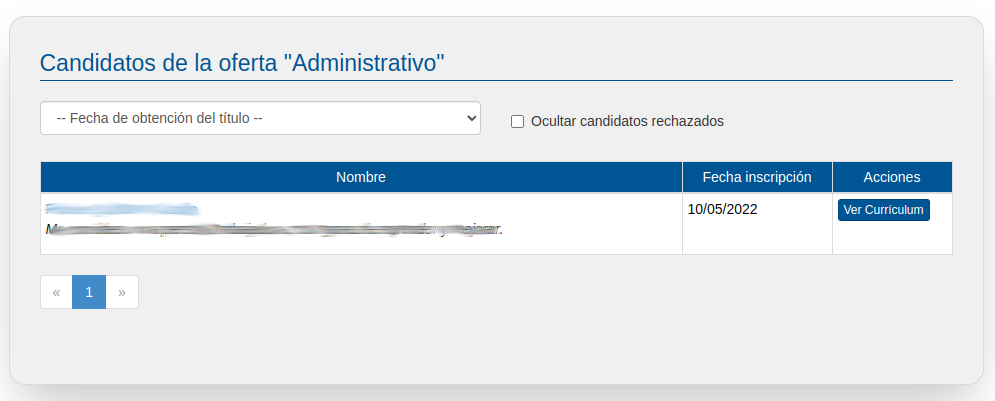
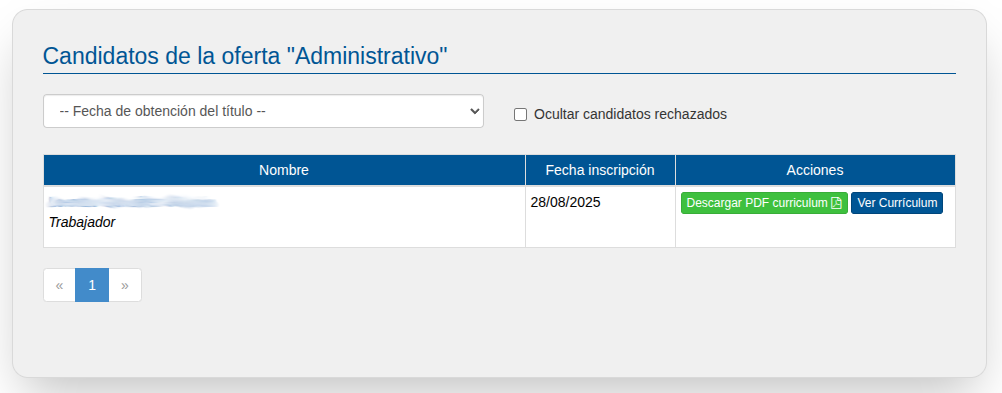
feat(#389):Que la empresa pueda descargar un PDF con el curriculum además que cuando se le envía por correo y lo vea en la web

diff --git a/web/empresa/views/candidato/search.html b/web/empresa/views/candidato/search.html
@@ -41,7 +41,7 @@ along with this program.  If not, see http://www.gnu.org/licenses/
                     <tr class="data-table__head">
                         <th ix3-order-field-names="usuario.nombre,usuario.apellidos" style="width:   90%;text-align: center">Nombre</th>
                         <th ix3-order-field-names="fecha" style="min-width: 150px; width: 150px;text-align: center">Fecha inscripci&oacute;n</th>
-                        <th style="min-width: 120px; width: 120px;text-align: center">Acciones</th>
+                        <th style="min-width: 280px; width: 280px;text-align: center">Acciones</th>
                     </tr>
                 </thead>
                 <tbody>
@@ -51,7 +51,10 @@ along with this program.  If not, see http://www.gnu.org/licenses/
                             <a href ng-click="verCandidato(candidato.idCandidato)">{{candidato.usuario.getNombreCompleto()}}</a>                                   
                             <p class="profile__value profile__value--cita">{{candidato.usuario.titulado.resumen}}</p></td>                            
                         <td >{{candidato.fecha| ix3Date}}</td>                            
-                        <td ><button class="btn btn-xs form__button form__button--default" type="button" ng-click="verCandidato(candidato.idCandidato)">Ver Currículum</button></td>                            
+                        <td >
+                            <a ng-href="{{ix3Configuration.server.api}}/Candidato/{{candidato.idCandidato}}/curriculum.pdf" class="btn btn-xs form__button form__button--primary" >Descargar PDF curriculum <i class="fa fa-file-pdf-o"></i></a>
+                            <button class="btn btn-xs form__button form__button--default" type="button" ng-click="verCandidato(candidato.idCandidato)">Ver Currículum</button>     
+                        </td>                            
                     </tr>
                 </tbody>
             </table>                 

diff --git a/web/empresa/fragments/lateralmenu/lateralmenu.js b/web/empresa/fragments/lateralmenu/lateralmenu.js
@@ -17,7 +17,7 @@
  */
 "user strict";
 
-app.controller("LateralMenuController", ['$scope', '$state', '$location', 'dialog', function ($scope, $state, $location, dialog) {
+app.controller("LateralMenuController", ['$scope', '$state', '$location', 'dialog','ix3Configuration', function ($scope, $state, $location, dialog, ix3Configuration) {
         $scope.isItemSelected = function (option) {
             if (option) {
                 var regExp = new RegExp(option);
@@ -44,5 +44,6 @@ app.controller("LateralMenuController", ['$scope', '$state', '$location', 'dialo
                 dialog.create("cambiarContrasenya", $scope.user);
             }
         };
-
+        
+        $scope.ix3Configuration=ix3Configuration;
     }]);

diff --git a/src/java/es/logongas/fpempresa/businessprocess/empresa/impl/CandidatoCRUDBusinessProcessImpl.java b/src/java/es/logongas/fpempresa/businessprocess/empresa/impl/CandidatoCRUDBusinessProcessImpl.java
@@ -16,9 +16,14 @@
 package es.logongas.fpempresa.businessprocess.empresa.impl;
 
 import es.logongas.fpempresa.businessprocess.empresa.CandidatoCRUDBusinessProcess;
+import es.logongas.fpempresa.modelo.comun.usuario.Usuario;
 import es.logongas.fpempresa.modelo.empresa.Candidato;
+import es.logongas.fpempresa.security.authorization.annotations.ACE;
+import es.logongas.fpempresa.security.authorization.annotations.ACEType;
+import es.logongas.fpempresa.service.comun.usuario.UsuarioCRUDService;
 import es.logongas.fpempresa.service.empresa.CandidatoCRUDService;
 import es.logongas.ix3.businessprocess.impl.CRUDBusinessProcessImpl;
+import es.logongas.fpempresa.security.authorization.annotations.PreAuthorization;
 import es.logongas.ix3.core.BusinessException;
 import es.logongas.ix3.core.Page;
 
@@ -29,7 +34,7 @@ import es.logongas.ix3.core.Page;
 public class CandidatoCRUDBusinessProcessImpl extends CRUDBusinessProcessImpl<Candidato, Integer> implements CandidatoCRUDBusinessProcess {
 
     @Override
-    public byte[] getFotoCandidato(FotoCandidatoArguments fotoCandidatoArguments) {
+    public byte[] getFotoCandidato(FotoCandidatoArguments fotoCandidatoArguments) throws BusinessException {
         return fotoCandidatoArguments.candidato.getUsuario().getFoto();
     }
 
@@ -63,6 +68,14 @@ public class CandidatoCRUDBusinessProcessImpl extends CRUDBusinessProcessImpl<Ca
         boolean resultado = super.delete(deleteArguments);
 
         return resultado;
+    }
+
+    @Override
+    @PreAuthorization(acl={@ACE(aceType=ACEType.Allow, groupLogin = "GEmpresas",conditionalExpression = "arguments.candidato.oferta.empresa.idEmpresa==identity.empresa.idEmpresa")})
+    public byte[] getCurriculumCandidato(CurriculumCandidatoArguments curriculumCandidatoArguments) throws BusinessException {
+        UsuarioCRUDService usuarioCRUDService = (UsuarioCRUDService) serviceFactory.getService(Usuario.class);
+        
+        return usuarioCRUDService.getCurriculum(curriculumCandidatoArguments.dataSession, curriculumCandidatoArguments.candidato.getUsuario());        
     }
     
 }

diff --git a/src/java/es/logongas/fpempresa/businessprocess/empresa/CandidatoCRUDBusinessProcess.java b/src/java/es/logongas/fpempresa/businessprocess/empresa/CandidatoCRUDBusinessProcess.java
@@ -14,7 +14,6 @@ package es.logongas.fpempresa.businessprocess.empresa;
 
 import es.logongas.fpempresa.modelo.empresa.Candidato;
 import es.logongas.fpempresa.modelo.empresa.Oferta;
-import es.logongas.ix3.businessprocess.BusinessProcess;
 import es.logongas.ix3.businessprocess.CRUDBusinessProcess;
 import es.logongas.ix3.core.BusinessException;
 import es.logongas.ix3.core.Page;
@@ -28,7 +27,8 @@ import es.logongas.ix3.dao.DataSession;
  */
 public interface CandidatoCRUDBusinessProcess extends CRUDBusinessProcess<Candidato, Integer> {
 
-    byte[] getFotoCandidato(FotoCandidatoArguments fotoCandidatoArguments);
+    byte[] getFotoCandidato(FotoCandidatoArguments fotoCandidatoArguments) throws BusinessException;
+    byte[] getCurriculumCandidato(CurriculumCandidatoArguments curriculumCandidatoArguments) throws BusinessException;
 
     public Page<Candidato> getCandidatosOferta(GetCandidatosOfertaArguments getCandidatosOfertaArguments) throws BusinessException;
 
@@ -47,6 +47,21 @@ public interface CandidatoCRUDBusinessProcess extends CRUDBusinessProcess<Candid
             this.candidato = candidato;
         }
     }
+    
+    public class CurriculumCandidatoArguments extends CRUDBusinessProcess.ParametrizedSearchArguments {
+
+        public Candidato candidato;
+
+        public CurriculumCandidatoArguments() {
+        }
+
+        public CurriculumCandidatoArguments(Principal principal, DataSession dataSession, Candidato candidato) {
+            super(principal, dataSession);
+
+            this.candidato = candidato;
+        }
+    }    
+    
 
     public class GetCandidatosOfertaArguments extends CRUDBusinessProcess.ParametrizedSearchArguments {
 

diff --git a/src/java/es/logongas/fpempresa/presentacion/controller/CandidatoController.java b/src/java/es/logongas/fpempresa/presentacion/controller/CandidatoController.java
@@ -72,4 +72,21 @@ public class CandidatoController {
         }
     }
 
+    @RequestMapping(value = {"/{path}/Candidato/{idCandidato}/curriculum.pdf"}, method = RequestMethod.GET, produces = "application/pdf")
+    public void downloadCurriculum(HttpServletRequest httpServletRequest, HttpServletResponse httpServletResponse, @PathVariable("idCandidato") int idCandidato) throws BusinessException {
+        try (DataSession dataSession = dataSessionFactory.getDataSession()) {
+            Principal principal = controllerHelper.getPrincipal(httpServletRequest, httpServletResponse, dataSession);
+
+            CRUDService<Candidato, Integer> candidatoCrudService = crudServiceFactory.getService(Candidato.class);
+            Candidato candidato = candidatoCrudService.read(dataSession, idCandidato);
+
+            CandidatoCRUDBusinessProcess candidatoCRUDBusinessProcess = (CandidatoCRUDBusinessProcess) crudBusinessProcessFactory.getBusinessProcess(Candidato.class);
+
+            byte[] curriculum = candidatoCRUDBusinessProcess.getCurriculumCandidato(new CandidatoCRUDBusinessProcess.CurriculumCandidatoArguments(principal, dataSession, candidato));
+
+            controllerHelper.objectToHttpResponse(new HttpResult(null, curriculum, 200, false, null, MimeType.PDF), httpServletRequest, httpServletResponse);
+        } catch (Exception ex) {
+            exceptionHelper.exceptionToHttpResponse(ex, httpServletRequest, httpServletResponse);
+        }
+    }    
 }

diff --git a/web/manuales/empresa/ofertas.md b/web/manuales/empresa/ofertas.md
@@ -40,7 +40,8 @@ La aplicación permite filtrar los candidatos con los siguientes criterios:
 - La fecha de obtención del título
 - Ocultar los candidatos que la propia empresa ha rechazado (En la siguiente pantalla se explica).
 
-Si se pulsa sobre el nombre de un candidatos o en el botón de "Ver Currículum" se muestra el curriculum del candidato.
+Si se pulsa sobre "Descargar PDF curriculum" se mostrará un PDF con el curriculum del candidato.
+Si se pulsa sobre el nombre de un candidatos o en el botón de "Ver Currículum" se muestrará la siguiente pantalla con el curriculum del candidato.
 
 ![](candidato.png)
 
